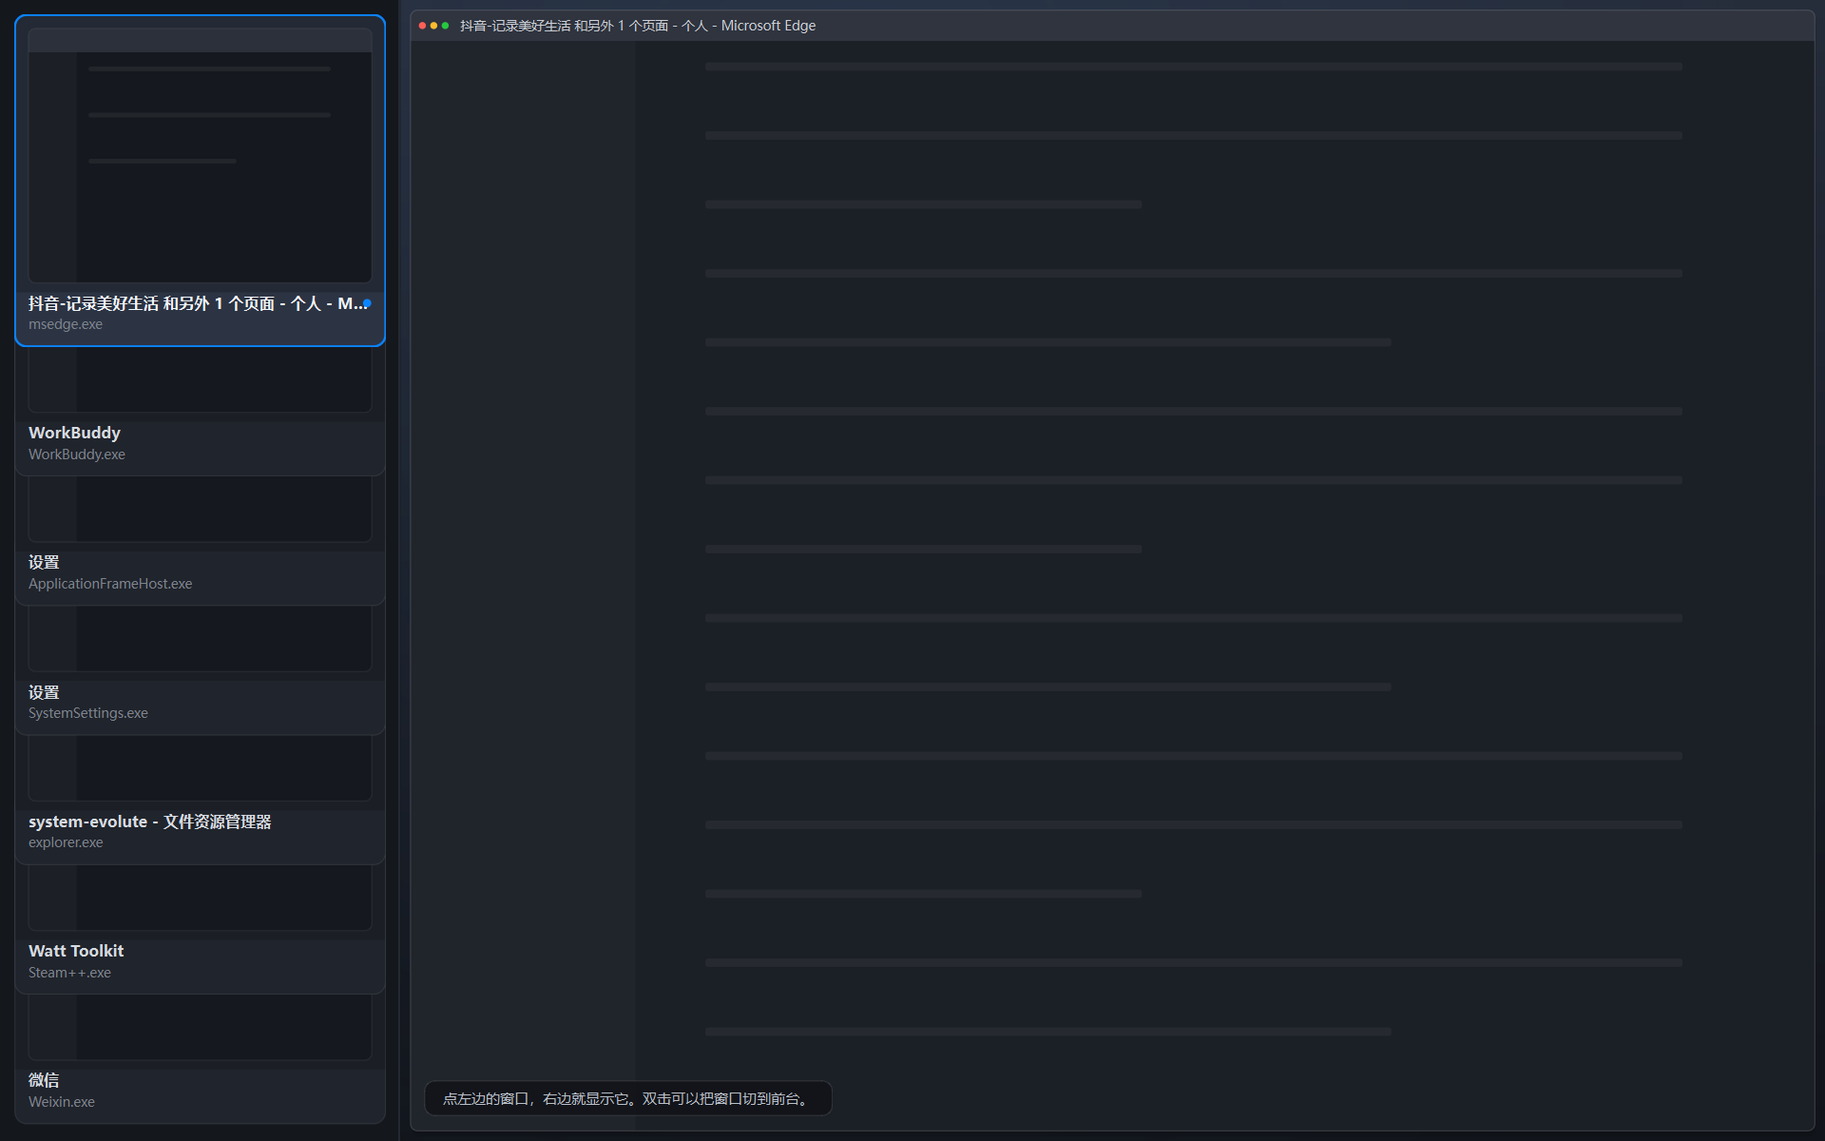
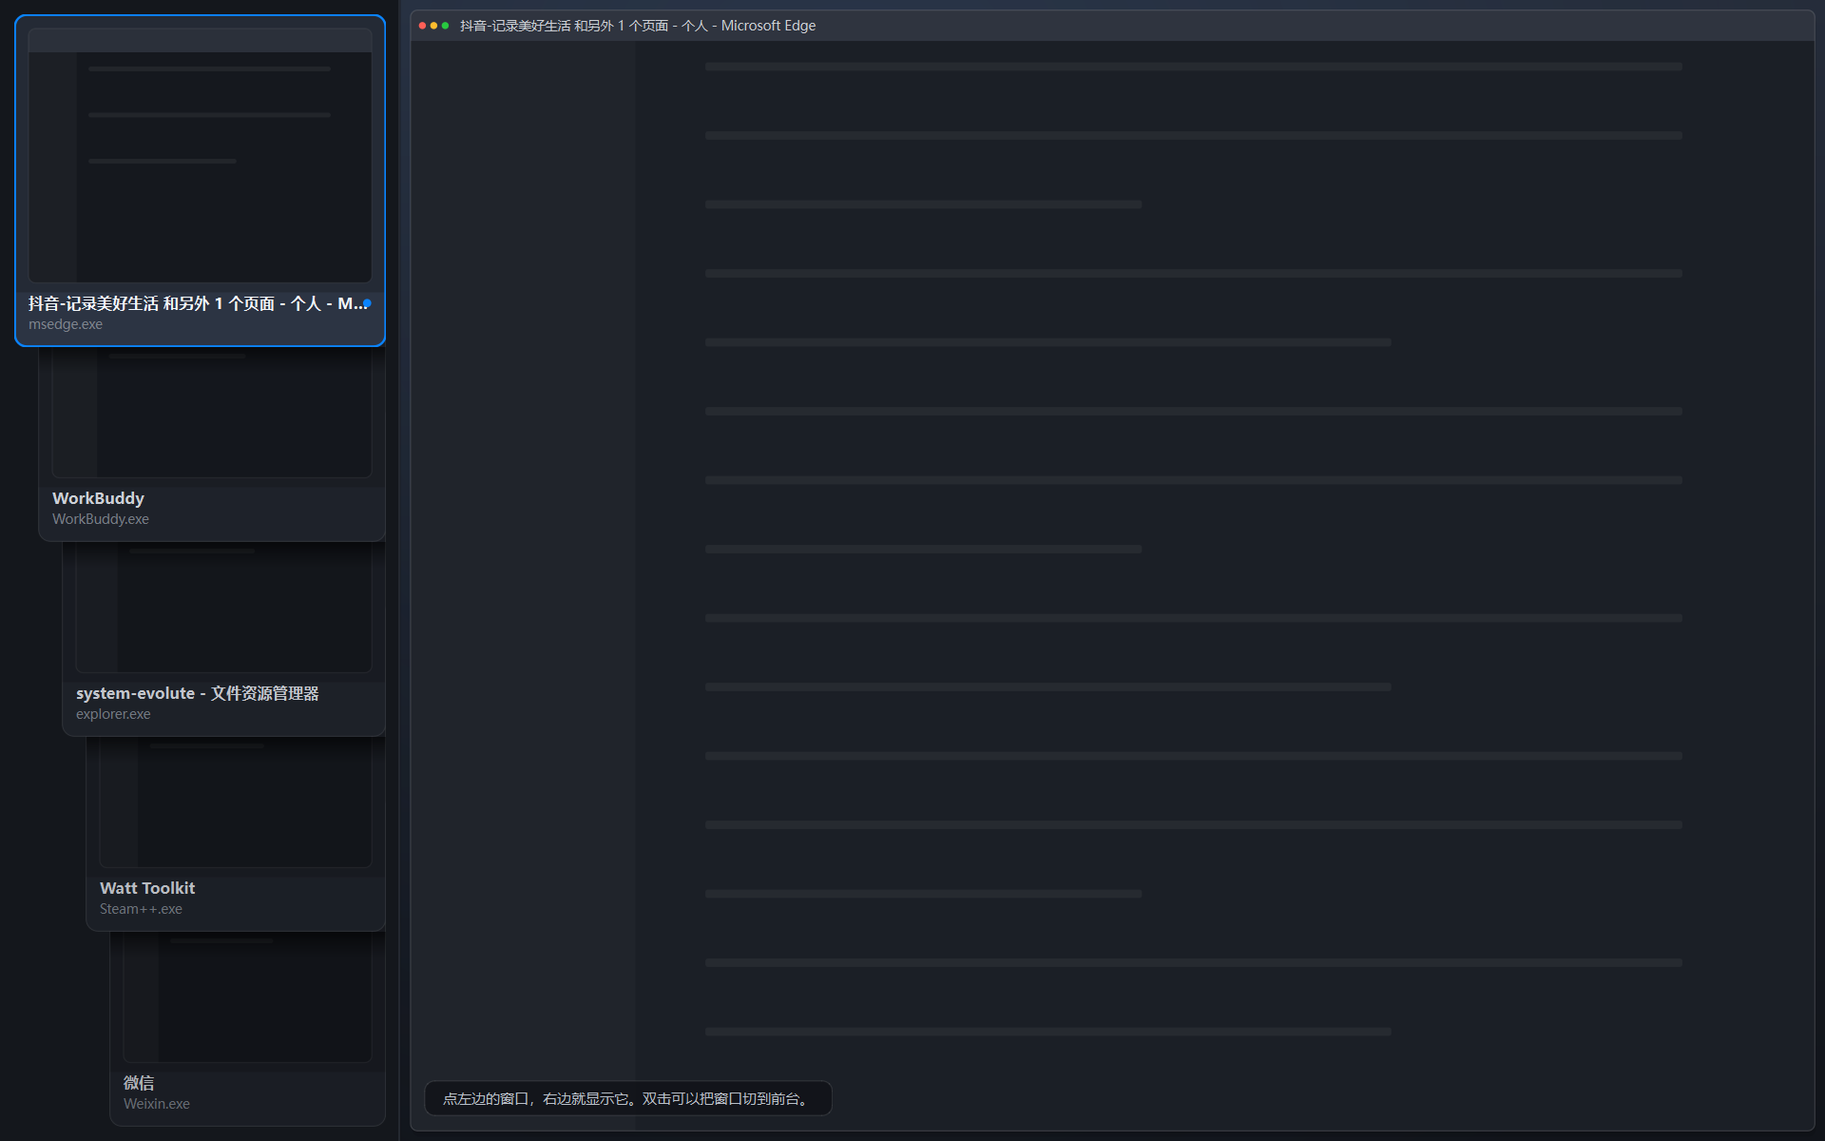
Stack the cards diagonally instead of tiling them
参考图里那些窗口本来就是互相压着的，平铺是我加戏。现在两张起就斜着叠：
最前那张完整显示，其余每张往下挪一段、往右错一点，只露出下面那条标题——
像一摞卡片投出来的重影。只有一个窗口时才整栏给它。

- 去掉 kMaxTiled / 平铺分支；step 反着算：先保证每张露出 46px 标题，
  剩下的高度全给最前那张，所以 2 张时 731px、4 张 321px、8 张 285px
- 横向错开 shift = clamp(width*40%/(n-1), 4, 20)，压缩档不斜
- 每深一张压暗一层（最多 27%），后面的自然退进阴影里
- 修内阴影位置：原来画在卡片顶边，而顶边正好被上一张盖住，等于没画；
  改成从"上一张的下边缘"往下压
- cardIndexAt 按"露出来的那一条"判定，斜叠留下的左下空档按行兜底
- ui_smoke 37 项（四张也叠、斜度递增、右边缘对齐）
- 讲解卡与截图改成斜叠口径

diff --git a/src/ui/window_cards.cpp b/src/ui/window_cards.cpp
@@ -18,9 +18,6 @@ constexpr int kGap = 10;
 constexpr int kTextHeight = 46;
 constexpr int kCardRadius = 10;
 
-// 超过这个数量就不平铺了，改成叠起来——四个以上平铺，每张就只剩一条了。
-constexpr int kMaxTiled = 4;
-
 const QColor kAccent(0x0a, 0x84, 0xff);
 
 }  // namespace
@@ -53,6 +50,22 @@ void WindowCard::setOverlapped(bool on) {
         return;
     }
     m_overlapped = on;
+    update();
+}
+
+void WindowCard::setCoverEdge(int y) {
+    if (m_coverEdge == y) {
+        return;
+    }
+    m_coverEdge = y;
+    update();
+}
+
+void WindowCard::setDepth(int depth) {
+    if (m_depth == depth) {
+        return;
+    }
+    m_depth = depth;
     update();
 }
 
@@ -207,14 +220,25 @@ void WindowCard::paintEvent(QPaintEvent*) {
         painter.drawEllipse(QPointF(width() - 16, textTop + 9), 3.5, 3.5);
     }
 
-    // 叠影时画一道从顶部压下来的阴影，卡片之间才有"前后"的感觉。
-    if (m_overlapped) {
+    // 越深压得越暗：一摞叠起来时，后面的本来就该退到阴影里。
+    if (m_depth > 0) {
         painter.save();
         painter.setClipPath(cardPath);
-        QLinearGradient shadow(0, 0, 0, 18);
-        shadow.setColorAt(0.0, QColor(0, 0, 0, 120));
+        painter.fillPath(cardPath, QColor(0, 0, 0, qMin(72, m_depth * 12)));
+        painter.restore();
+    }
+
+    // 叠影时画一道从顶部压下来的阴影，卡片之间才有"前后"的感觉。
+    if (m_overlapped) {
+        // 从"上一张的下边缘"往下压一道阴影：叠影的层次全靠它，否则两段同色很难看出前后。
+        painter.save();
+        painter.setClipPath(cardPath);
+        const qreal top = qBound(0, m_coverEdge, qMax(0, height() - 4));
+        QLinearGradient shadow(0, top, 0, top + 22);
+        shadow.setColorAt(0.0, QColor(0, 0, 0, 150));
+        shadow.setColorAt(0.55, QColor(0, 0, 0, 60));
         shadow.setColorAt(1.0, QColor(0, 0, 0, 0));
-        painter.fillRect(QRectF(0, 0, width(), 18), shadow);
+        painter.fillRect(QRectF(0, top, width(), 22), shadow);
         painter.restore();
     }
 }
@@ -283,60 +307,48 @@ void CardStack::relayout(bool animated) {
         return;
     }
 
-    m_stacked = count > kMaxTiled;
     const int width = this->width() - kMargin * 2;
     // 上下也留出同样的边：贴着窗口边缘会被切掉圆角和边框，看起来像溢出而不是铺满。
     const int inner = this->height() - kMargin * 2;
 
-    if (!m_stacked) {
-        const int height = qMax(60, (inner - kGap * (count - 1)) / count);
-        for (int i = 0; i < count; ++i) {
-            QRect target(kMargin, kMargin + i * (height + kGap), width, height);
-            WindowCard* card = m_cards.at(i);
-            if (animated && card->geometry() != target) {
-                auto* anim = new QPropertyAnimation(card, "geometry", card);
-                anim->setDuration(160);
-                anim->setEasingCurve(QEasingCurve::OutCubic);
-                anim->setStartValue(card->geometry());
-                anim->setEndValue(target);
-                anim->start(QAbstractAnimation::DeleteWhenStopped);
-            } else {
-                card->setGeometry(target);
-            }
+    // 一张的时候没得叠，整栏给它；两张起就斜着叠——参考图里本来就是叠着的。
+    m_stacked = count > 1;
+
+    int cardHeight = inner;
+    int step = inner;
+    int shift = 0;
+
+    if (m_stacked) {
+        // 最前面那张不必高过半栏；往下的这段至少要放得下一条标题条，
+        // 否则下面那张的标题会被上面这张压掉一半。
+        const int maxCard = qMin(280, inner / 2);
+        step = qMax(kTextHeight, qMin(inner * 22 / 100, (inner - maxCard) / (count - 1)));
+        cardHeight = inner - (count - 1) * step;
+
+        // 连一条标题都排不下（大约 20 张以上）：不再叠影，退化成一条条标题。
+        // 这时卡片高度就等于行高，相邻两张正好不重叠，字也就不会互相压。
+        m_compact = cardHeight < kTextHeight;
+        if (m_compact) {
+            step = qMax(1, inner / count);
+            cardHeight = step;
         }
-        // 平铺没有遮挡，叠放顺序无所谓，按顺序放就行。
-        for (int i = count - 1; i >= 0; --i) {
-            m_cards.at(i)->raise();
-            m_cards.at(i)->setOverlapped(false);
-            m_cards.at(i)->setCompact(false);
-        }
+
+        // 每深一张往右错一点，像一摞卡片投出来的重影；右边缘对齐，左边一级级往里收。
+        // 横向总量压在栏宽的 40% 以内，否则最后几张会瘦成一条；压缩档不斜。
+        shift = m_compact ? 0 : qBound(4, width * 40 / 100 / (count - 1), 20);
+    } else {
         m_compact = false;
-        m_step = height + kGap;
-        return;
     }
 
-    // 叠起来：最前那张完整显示，其余每张往下挪一小段，只露出下面那行字。
-    // 关键约束：挪的这段不能小于一条标题条的高度（kTextHeight），否则下面那张的
-    // 标题会被上面这张盖掉一半——窗口越多越糊，20 个的时候两行字直接叠在一起。
-    const int desired = qBound(180, static_cast<int>(this->height() * 0.34), 280);
-    // 要保证 step >= kTextHeight，最前那张最多只能有这么高。
-    const int ceiling = inner - (count - 1) * kTextHeight;
-    int cardHeight = qBound(kTextHeight, ceiling, desired);
-    int step = count > 1 ? (inner - cardHeight) / (count - 1) : 0;
-
-    // 连"一条标题"的高度都排不下（大约 20 个以上）：不再叠影，退化成一条条标题。
-    // 这时卡片高度就等于行高，相邻两张正好不重叠，字也就不会互相压。
-    m_compact = count > 1 && step < kTextHeight;
-    if (m_compact) {
-        step = qMax(1, inner / count);
-        cardHeight = step;
-    }
     m_step = step;
+    m_shift = shift;
 
     for (int i = 0; i < count; ++i) {
-        QRect target(kMargin, kMargin + i * step, width, cardHeight);
+        const QRect target(kMargin + i * shift, kMargin + i * step, width - i * shift, cardHeight);
         WindowCard* card = m_cards.at(i);
         card->setCompact(m_compact);
+        card->setCoverEdge(cardHeight - step);
+        card->setDepth(m_compact ? 0 : i);
         if (animated && card->geometry() != target) {
             auto* anim = new QPropertyAnimation(card, "geometry", card);
             anim->setDuration(160);
@@ -356,6 +368,40 @@ void CardStack::relayout(bool animated) {
 }
 
 int CardStack::cardIndexAt(const QPoint& pos) const {
+    if (m_stacked && !m_compact) {
+        // 斜着叠之后每张真正露出来的只有下面这一条（最前那张整块都是它自己的），
+        // 所以先按"露出来的那一条"判定，不能拿整张的矩形去撞。
+        for (int i = 0; i < m_cards.size(); ++i) {
+            WindowCard* card = m_cards.at(i);
+            if (!card->isVisible()) {
+                continue;
+            }
+            if (i == 0) {
+                if (card->geometry().contains(pos)) {
+                    return 0;
+                }
+                continue;
+            }
+            const QRect band(card->x(), card->y() + card->height() - m_step, card->width(),
+                             m_step);
+            if (band.contains(pos)) {
+                return i;
+            }
+        }
+        // 斜着叠会在左下角留出一条三角形空档。落在空档里时按行去找那一行是谁，
+        // 否则那一片点了没反应，像坏了一样。
+        for (int i = 1; i < m_cards.size(); ++i) {
+            WindowCard* card = m_cards.at(i);
+            if (!card->isVisible()) {
+                continue;
+            }
+            if (pos.y() >= card->y() + card->height() - m_step && pos.y() < card->y() + card->height()) {
+                return i;
+            }
+        }
+        return -1;
+    }
+
     for (int i = 0; i < m_cards.size(); ++i) {
         if (m_cards.at(i)->isVisible() && m_cards.at(i)->geometry().contains(pos)) {
             return i;

diff --git a/src/ui/window_cards.h b/src/ui/window_cards.h
@@ -23,7 +23,12 @@ public:
     bool isSelected() const { return m_selected; }
 
     // 叠影时上面那张会压住这张的顶部，画一道内阴影让层次看得出来。
+    // coverEdge 是"上一张的下边缘在哪"（卡片内部坐标）：阴影从这条线往下压，
+    // 而不是从卡片自己的顶边压——顶边本来就被盖住了，画在那儿谁也看不见。
     void setOverlapped(bool on);
+    void setCoverEdge(int y);
+    // 在叠影里的第几层（0 = 最前）。越深画得越暗，像一层层压出来的重影。
+    void setDepth(int depth);
 
     // 压缩模式：窗口多到连一条标题都排不下时，整张卡退化成一条标题，
     // 不再画画面区。宁可没有预览，也不能让两行字叠在一起。
@@ -48,14 +53,16 @@ private:
     bool m_selected = false;
     bool m_overlapped = false;
     bool m_compact = false;
+    int m_coverEdge = 0;
+    int m_depth = 0;
 };
 
 // 左栏的卡片堆。
 //
-// 两种摆法，取决于窗口数量：
-//   - 四个以内：竖着平铺，每张等分高度，正好铺满整条栏；
-//   - 多于四个：叠起来，最前那张完整显示，其余每张只露出下面一条标题。
-//     点哪张哪张就到最前；按住拖动可以把它从叠影里抽出来。
+// 只有一张时整栏给它；两张起就斜着叠起来——
+// 最前那张完整显示，其余每张往下挪一段、往右错一点，只露出下面那条标题，
+// 像一摞卡片投出来的重影。点哪张哪张就到最前，按住拖动也可以把它抽出来。
+// 窗口多到连一条标题都排不下时，退化成一条条标题（`isCompact()`）。
 class CardStack : public QWidget {
     Q_OBJECT
 
@@ -70,7 +77,10 @@ public:
     bool isStacked() const { return m_stacked; }
     // 相邻两张的间距（叠影时就是每张露出来的那一条有多高）。
     int stackedStep() const { return m_step; }
+    // 每深一张往右错开多少像素（斜着叠的那个斜度）。
+    int stackedShift() const { return m_shift; }
     bool isCompact() const { return m_compact; }
+    WindowCard* cardAt(int index) const { return m_cards.value(index, nullptr); }
     // 排在最前的那张（叠影时就是完整露出来的那张）。
     WindowId topWindow() const { return m_cards.isEmpty() ? 0 : m_cards.first()->windowId(); }
 
@@ -98,6 +108,7 @@ private:
     bool m_stacked = false;
     bool m_compact = false;
     int m_step = 0;
+    int m_shift = 0;
 
     int m_pressIndex = -1;
     QPoint m_pressPos;

diff --git a/tests/ui_smoke.cpp b/tests/ui_smoke.cpp
@@ -115,9 +115,11 @@ int main(int argc, char* argv[]) {
     QCoreApplication::processEvents();
     const QVector<crossdesk::ui::WindowItem> windows = service.windows();
 
-    // ---- 左栏：四个窗口平铺 ----
+    // ---- 左栏：四张卡斜着叠起来 ----
     check(stack->cardCount() == 4, "左栏有四张窗口卡");
-    check(!stack->isStacked(), "四个窗口以内是平铺，不叠");
+    check(stack->isStacked(), "四个窗口也是斜着叠起来的，不平铺");
+    check(!stack->isCompact(), "四张还没压到只剩标题");
+    check(stack->stackedShift() > 0, "叠的时候左右错开");
     check(window.selectedWindow() == windows.first().id, "启动时默认选中第一个窗口");
 
     // ---- 右栏：只显示一个窗口，且铺满 ----
@@ -181,6 +183,11 @@ int main(int argc, char* argv[]) {
     check(stack2->cardCount() == 8, "八个窗口时左栏有八张卡");
     check(stack2->isStacked(), "超过四个就叠起来");
     check(stack2->topWindow() == many.windows().first().id, "最前面是第一个窗口");
+    check(stack2->stackedShift() > 0, "叠影是斜着错开的，不是一列直上直下");
+    check(stack2->cardAt(4) && stack2->cardAt(0) && stack2->cardAt(4)->x() > stack2->cardAt(0)->x(),
+          "越往后错得越靠右");
+    check(stack2->cardAt(4) && stack2->cardAt(4)->width() < stack2->cardAt(0)->width(),
+          "越往后越窄，右边缘对齐");
 
     const crossdesk::ui::WindowId lastId = many.windows().last().id;
     clickCard(stack2, 7);

diff --git a/docs/notes/c-mvp-ui.md b/docs/notes/c-mvp-ui.md
@@ -15,7 +15,7 @@
 | `src/ui/preview_widgets.*` | 右栏 | 一个窗口铺满画面的画布；另留了"桌面全览 / 两列"两种画法 |
 | `src/ui/layout_math.*` | 布局 | 等宽 / 60:40 的纯函数，B 的实现替换点（当前没有调用点） |
 | `src/ui/main_window.*` | 界面 | 全屏两栏、选中、快捷键、动画、失败反馈 |
-| `tests/ui_smoke.cpp` | 测试 | 32 项断言，无显示器可跑 |
+| `tests/ui_smoke.cpp` | 测试 | 37 项断言，无显示器可跑 |
 
 ## 五个必须能讲清的点
 
@@ -61,7 +61,7 @@
 run-fake.bat
 ```
 
-1. 左栏四张卡，每张上面是这块窗口的画面、下面是标题和进程名。
+1. 左栏四张卡斜着叠在一起：第一张完整，其余露出画面的一条和下面那行标题。
 2. 点第二张 → 右栏换成它，卡片描蓝边。
 3. `Ctrl+Enter`（或双击卡片）→ 目标窗口被切到前台。
 4. 点「设置」再定位 → 红字提示被系统拒绝。
@@ -85,13 +85,13 @@ crossdesk.exe --fake-count 32
 
 ## 界面结构（2026-10-20 卡片版）
 
-四张卡平铺（`--fake`）：
+四个窗口，斜着叠成重影（`--fake`）：
 
-![四张卡平铺](screenshots/overview-cards-2026-10-20.png)
+![四个窗口斜着叠](screenshots/overview-cards-2026-10-20.png)
 
-八张卡改成叠影（`--fake-many`）：
+八个窗口，叠得更密（`--fake-many`）：
 
-![超过四张改成叠影](screenshots/overview-cards-stacked-2026-10-20.png)
+![八个窗口](screenshots/overview-cards-stacked-2026-10-20.png)
 
 真实桌面上的窗口（`run.bat`）：
 
@@ -112,16 +112,17 @@ crossdesk.exe --fake-count 32
 ```
 
 - **无边框 + `showFullScreen()`**：这不是一个"应用窗口"，是盖在桌面上的一层总览。
-- **左栏**：四张卡以内竖着平铺，每张等分高度、正好铺满；五张起改成叠影——
-  最前那张完整，其余每张往下挪一段、只露出下面那条标题。
+- **左栏**：斜着叠。最前那张完整显示，其余每张往下挪一段、往右错一点，
+  只露出下面那条标题——像一摞卡片投出来的重影。只有一个窗口时整栏给它。
 - **右栏**：只画选中的那一个窗口，铺满整块区域（`showSingle()` 给的矩形就是整个可用区域）。
 - 状态条浮在画面左下角，不占布局。
 
 四个必须讲清的决定：
 
-1. **为什么左边最多四个**
-   四张卡平铺之后每张还有足够高的画面区；再多就只能压缩到只剩标题，不如干脆叠起来。
-   `kMaxTiled = 4` 就是这一条，改这一个常量就能换阈值。
+1. **为什么一进来就是叠着的，不是平铺**
+   参考图里那几个窗口本来就是互相压着的：只露出标题，一眼能看到"还有哪些窗口"，
+   又不用把每个都缩到看不清。四张平铺之后每张的画面区只剩一条，反而更难认。
+   叠的密度由 `step` 控制，窗口越多叠得越紧（见下一节）。
 
 2. **为什么叠影露出的是"下面那条字"**
    卡片结构是"上面画面、下面文字"。叠起来时上面那张盖住下面那张的上半部分，
@@ -135,37 +136,43 @@ crossdesk.exe --fake-count 32
    `showSelected(bool animate)` 里，刷新路径传 false。否则每次 Ctrl+R 都会闪一下，
    而刷新本身并没有换窗口。
 
-## 窗口更多时（5 张以上）
+## 窗口更多时
 
-第 5 张开始就不再平铺，改成叠影。但叠影能撑多少张，取决于每张露出来的那条**够不够高**：
-标题条是 46px，露出的步长一旦小于它，下面那张的标题就会被上面那张盖掉一半——
-16 张时开始压字，20 张时两行字直接叠在一起（这就是为什么不能简单写
-`step = (高度 - 卡高) / (n - 1)`）。
+叠影能撑多少张，取决于每张露出来的那条**够不够高**：标题条是 46px，步长一旦小于它，
+下面那张的标题就会被上面这张盖掉一半。如果直接写 `step = (高度 - 卡高) / (n - 1)`、
+卡高写死 280，16 张时就开始压字，20 张时两行字叠在一起。
 
-所以布局是分档算的（`CardStack::relayout`，以 1080p、左栏内高 936px 为例）：
+所以步长反着算：**先保证每张都露得出一条标题，剩下的高度全给最前那张**
+（`CardStack::relayout`，以 1080p、左栏内高 936px 为例）。
 
-| 窗口数 | 摆法 | 每张露出 | 最前那张 |
+| 窗口数 | 每张露出 | 最前那张 | 左右错开 |
 | --- | --- | --- | --- |
-| 1–4 | 平铺，等分高度 | — | — |
-| 5–20 | 叠影 | 至少 46px（正好一条标题） | 随数量让位：5 张时 280px，16 张时 246px，20 张时 62px |
-| 21+ | 标题条（压缩） | 左栏高度均分 | 和别的条一样高 |
+| 1 | 整栏 | 整栏 | 0 |
+| 2–4 | 约 205px | 731 → 321px | 20px |
+| 5–16 | 93 → 46px | 285 → 246px | 17 → 13px |
+| 17–20 | 46px（正好一条标题） | 200 → 62px | 8px |
+| 21+ | 行高均分（压缩档） | 和别的条一样高 | 0 |
 
-三个档位的取舍：
+两个机制：
 
-1. **5–20 张**：卡高不是写死的 280，而是"让每张至少露出 46px"之后剩下的空间——
-   `ceiling = inner - (count - 1) * 46`，再 `cardHeight = qBound(46, ceiling, 280)`。
-   窗口越多，最前那张越矮，直到只剩一条。
-2. **21 张以上**：连一条标题都排不下，这时干脆不叠影——卡片高度直接等于行高，
-   相邻两张正好不重叠，退化成一列标题，字不会互相压。圆角也从 10 收到 4，
-   否则一排 27px 高的圆角块看起来像药丸。
-3. **真实模式只收 10 个窗口**（`kMaxWindows = 10`），所以实际只会用到中间那档；
-   压缩档是给"以后放开上限"留的兜底，`--fake-count 32` 可以直接看。
+1. **步长下限**：`step = max(46, min(inner*22%, (inner - maxCard) / (n-1)))`，
+   卡高 `= inner - (n-1)*step`。窗口越多步长越小，小到 46px 就顶住，
+   再多的部分由"最前那张变矮"吸收。
+2. **压缩档**：连一条标题都塞不下时（约 21 张起，取决于屏幕高度），
+   卡片高度直接等于行高，相邻两张正好不重叠，退化成一列标题——字不会互相压，
+   点第 21 条照样能换到最前。圆角从 10 收到 4，否则一排 27px 高的圆角块像药丸。
+
+斜度也跟数量走：`shift = clamp(width*40% / (n-1), 4, 20)` 像素。
+少了看不出"斜"，多了最后几张会瘦成一条；压缩档干脆不斜，斜了反而读不出来。
+
+（真实模式只收 10 个窗口，`kMaxWindows = 10`，所以日常落在 5–16 那档；
+压缩档是给以后放开上限留的兜底，`--fake-count 32` 可以直接看。）
 
 十六张（每张还露得出一条完整标题）：
 
-![十六张仍然是叠影](screenshots/overview-cards-16-2026-10-20.png)
+![十六张](screenshots/overview-cards-16-2026-10-20.png)
 
-三十二张（退化成标题条，点第 21 条照样能换到最前）：
+三十二张（退化成标题条）：
 
 ![三十二张退化成标题条](screenshots/overview-cards-crowded-2026-10-20.png)
 
